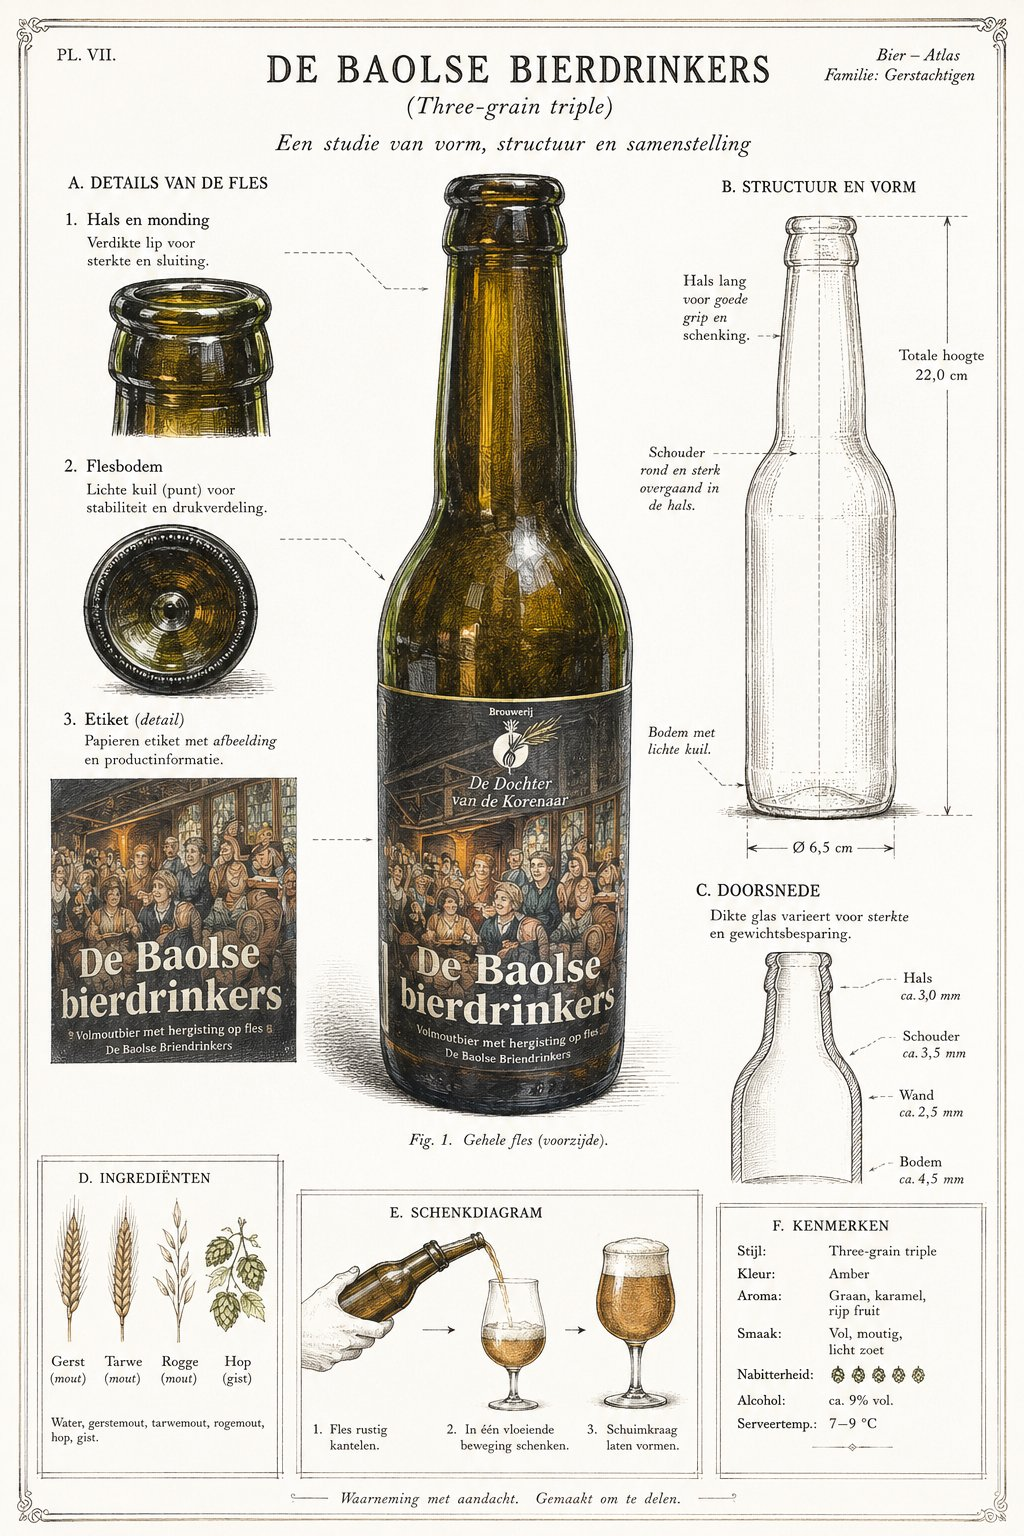
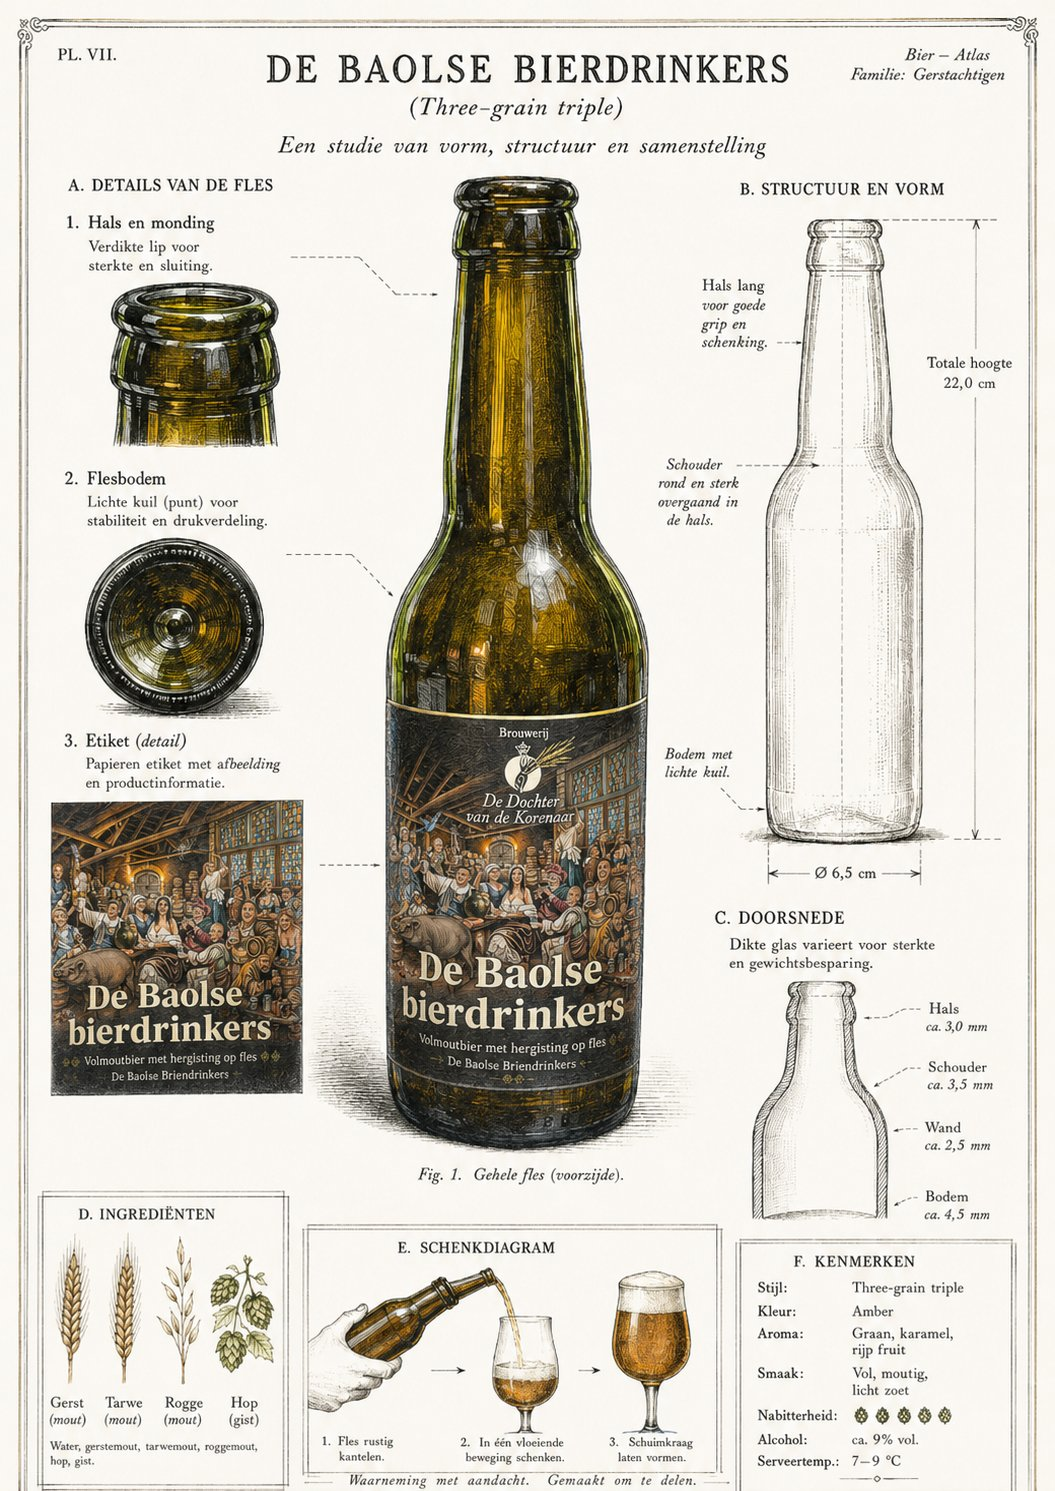
Replace bottle plate with new Plate VII illustration
Convert images/botanical01.png -> images/atlas-plate-vii.jpg (1055x1491, q85 progressive).
Update section III to reference Plate VII (was XXVII); caption/alt updated to match.
Remove unused atlas-plate-xxvii.jpg and source botanical01.png.

diff --git a/index.html b/index.html
@@ -645,10 +645,10 @@ footer .legal {
 
     <div class="atlas-plates">
       <figure class="atlas-plate">
-        <img src="images/atlas-plate-xxvii.jpg" alt="Atlas-plaat XXVII — natuurkundige studie van de fles, etiket en ingrediënten van De Baolse Bierdrinkers" loading="lazy">
+        <img src="images/atlas-plate-vii.jpg" alt="Atlas-plaat VII — studie van vorm, structuur en samenstelling van de fles De Baolse Bierdrinkers, met details van hals, bodem, etiket, ingrediënten en schenkdiagram" loading="lazy">
         <figcaption>
-          <strong>Plate XXVII</strong>
-          Natuurkundige Atlas — Tab. CXXVII. Studie van vorm, functie en samenstelling.
+          <strong>Plate VII</strong>
+          Bier-Atlas, familie Gerstachtigen. Studie van vorm, structuur en samenstelling.
         </figcaption>
       </figure>
 